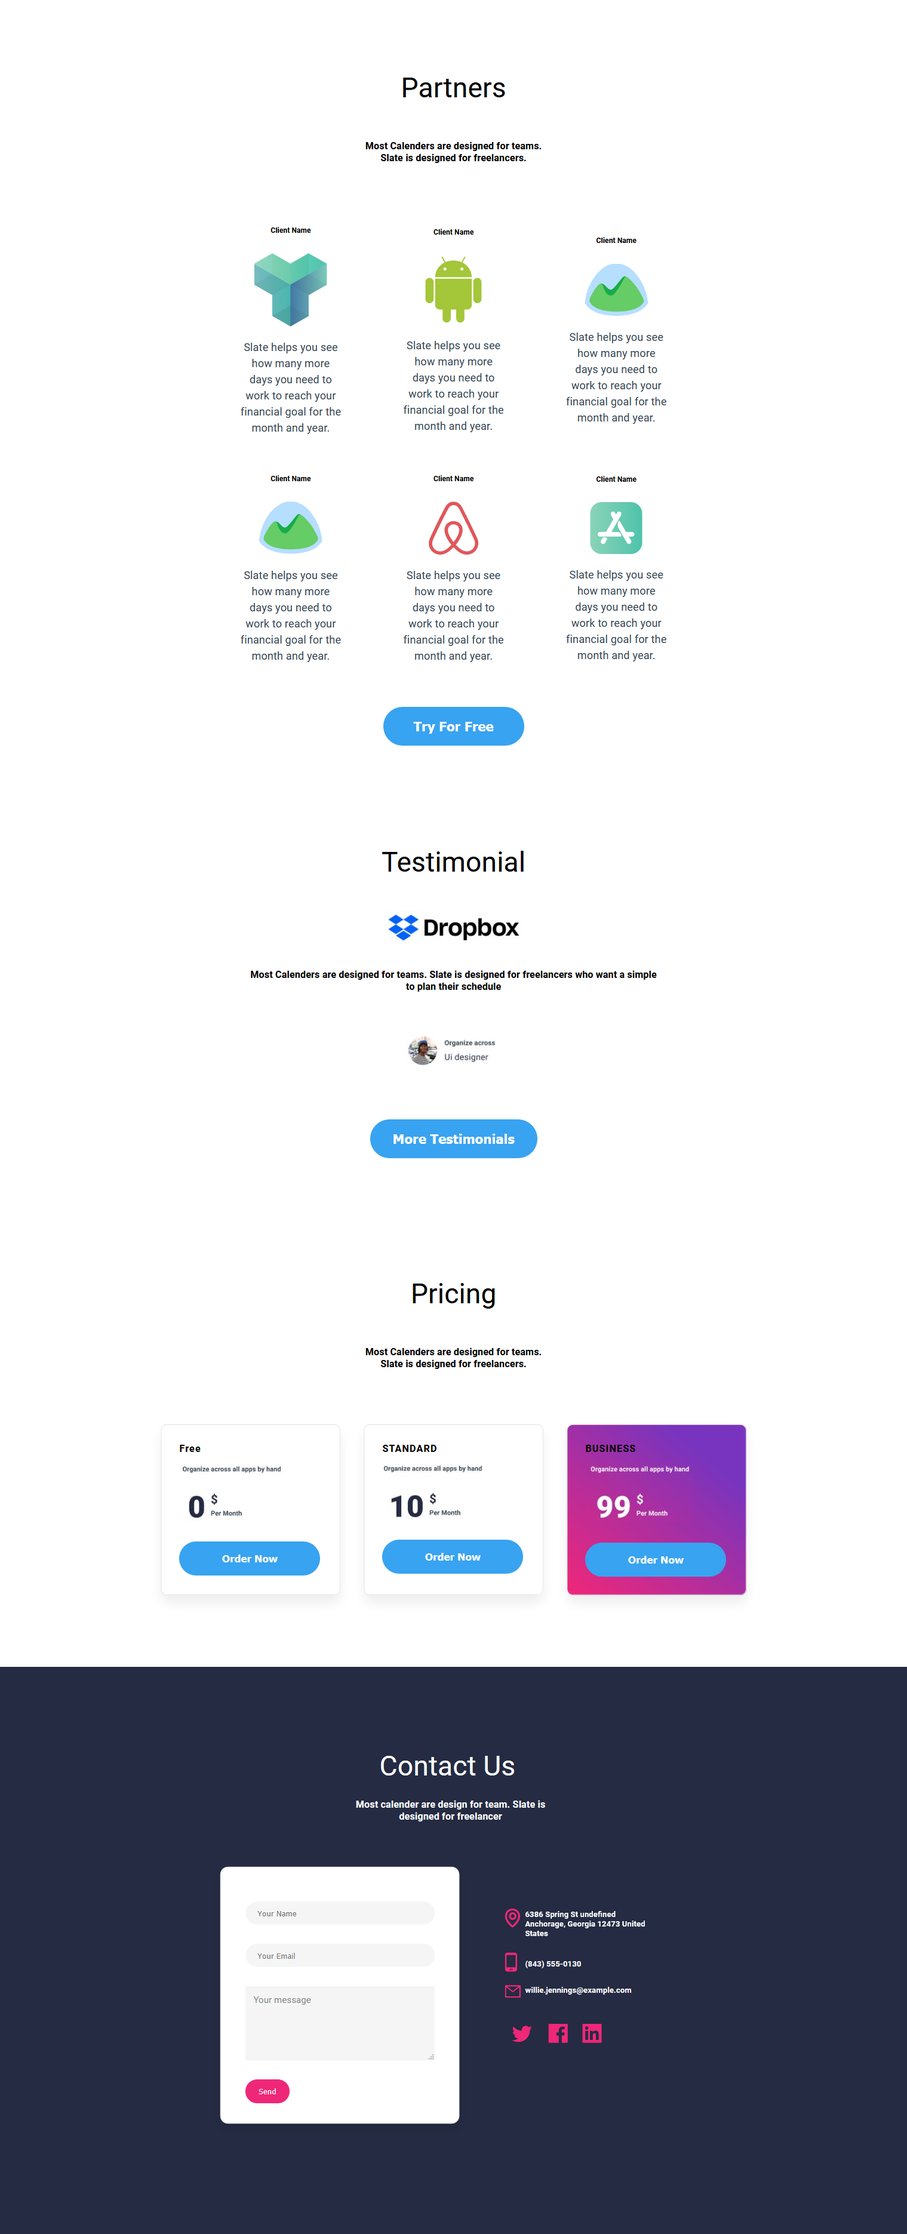
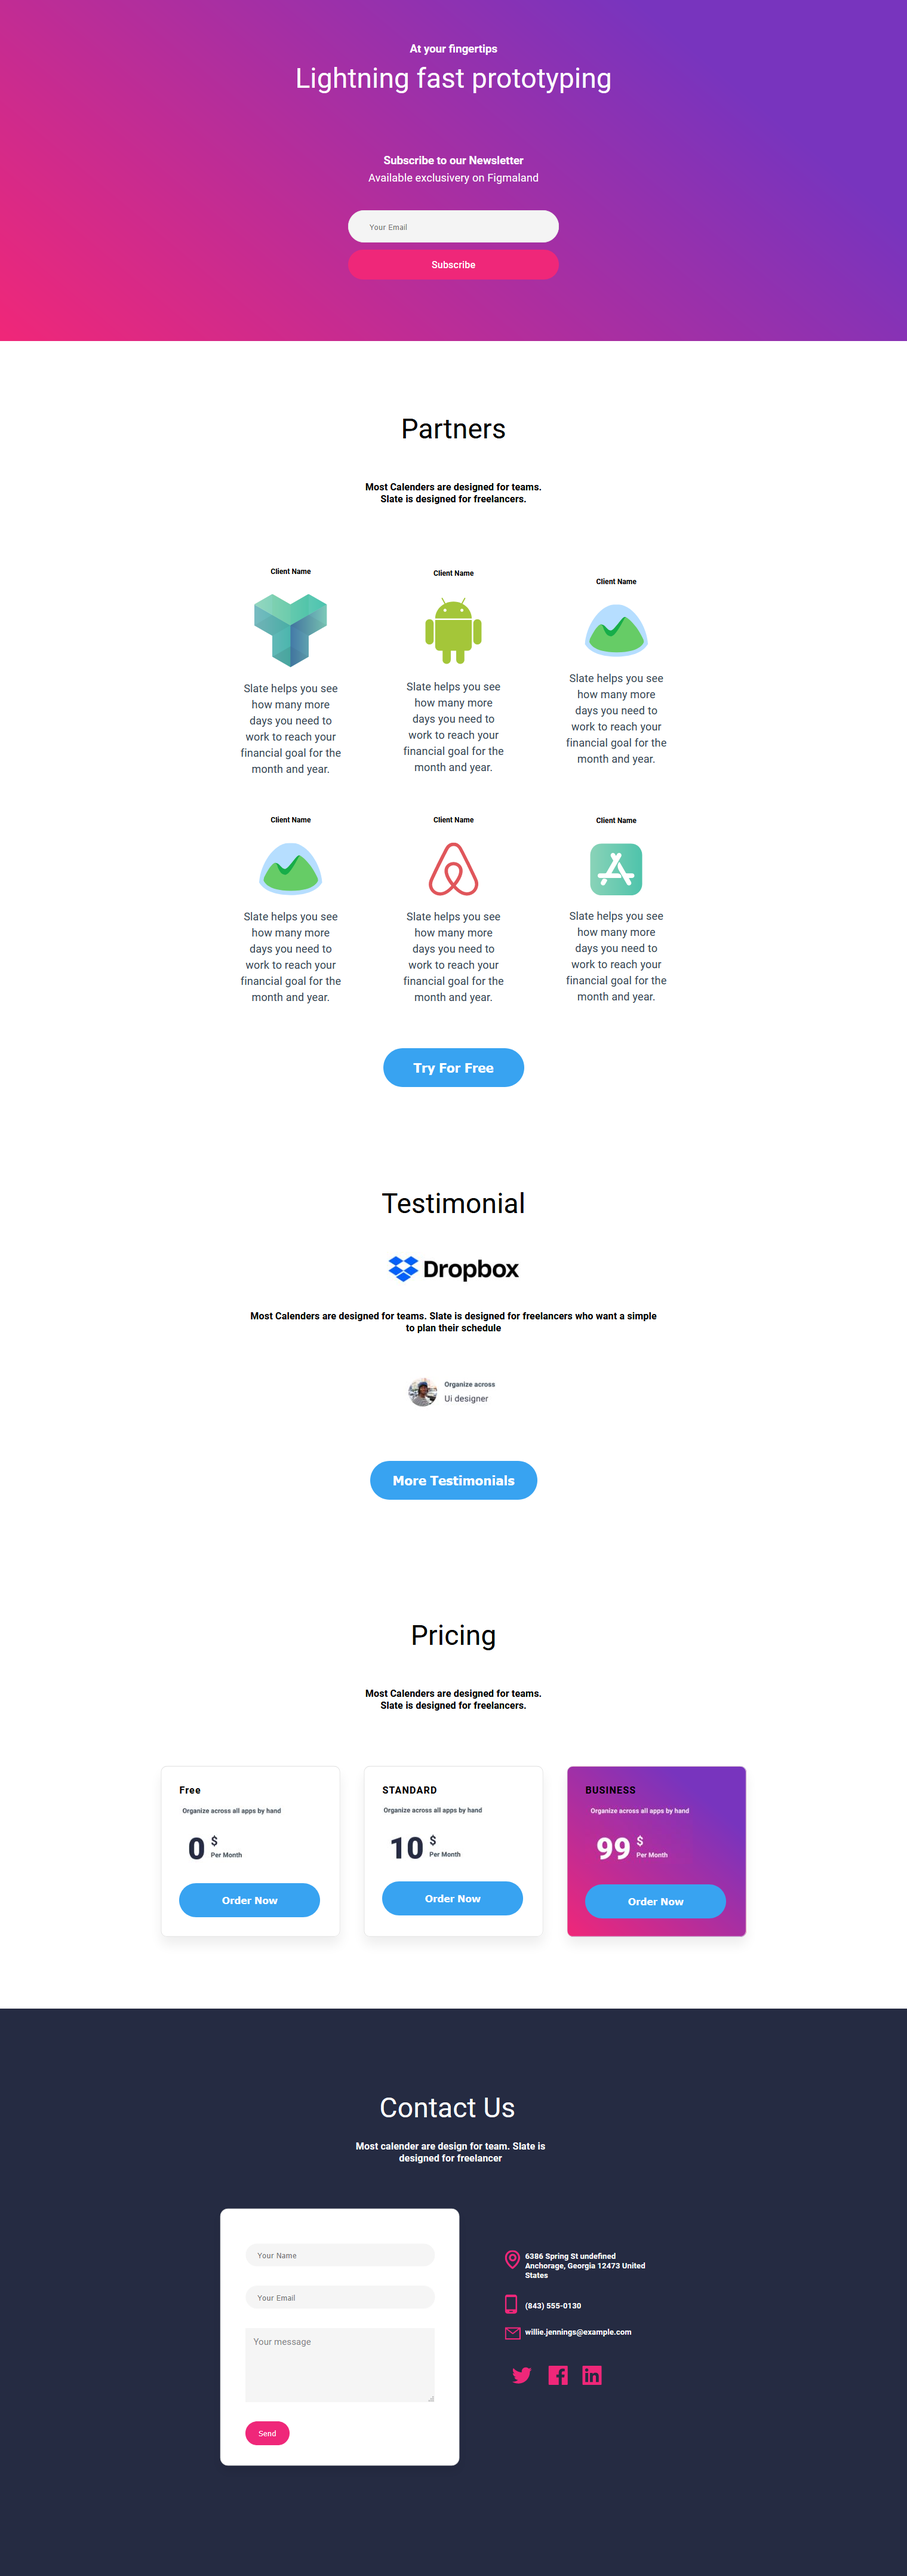
Subscribe commit

Changed region(s): [[0.0, 0.0, 1.0, 0.93], [0.6188, 0.217, 0.7426, 0.403], [0.2475, 0.93, 0.4951, 0.961]]

diff --git a/style.css b/style.css
@@ -38,6 +38,142 @@ p{
     color: #374754;
 }
 
+/* ------------------------------------------------subscribe---------------------------------------------------- */
+.sub-container{
+    display: flex;
+    flex-direction: column;
+    align-items: center;
+    width: 100%;
+    height: 571px;
+    background: linear-gradient(39.97deg, #EF2779 0.79%, #7834BE 79.29%);
+    color: white !important;
+}
+
+.sub-content{
+    display: flex;
+    flex-direction: column;
+    align-items: center;
+    width: 531px;   
+    height: auto;
+    left: calc(50% - 531px/2);
+    top: 11px;
+}
+
+.sub-contain1{
+    margin-top: 70px;
+    display: flex;
+    flex-direction: column;
+    align-items: center;
+}
+
+.sub-resp{
+    display: none;
+}
+
+.sub-contain2{
+    margin-top: 60px;
+    display: flex;
+    flex-direction: column;
+    align-items: center;
+    
+}
+
+.sub-contain2 h3{
+    margin: 0px;
+}
+
+.sub-desk{
+    margin-top: 10px !important;
+}
+
+.sub-1-h3 {
+	margin: 0px;
+}
+
+.sub-p{
+    color: white !important;
+    margin-top: 5px;
+    margin-bottom: 40px;    
+}
+
+.sub-input{
+    display: flex;
+    flex-direction: column;
+    align-items: flex-start;
+    padding: 19px 35px;
+    width: 353px;
+    height: 54px;    
+    background: #F4F4F4;
+    border: 1px solid #E8E8E8;
+    box-sizing: border-box;
+    border-radius: 39px;
+    flex-grow: 0;
+    margin-top: 34;
+}
+
+.sub-btn{
+    display: flex;
+    flex-direction: column;
+    align-items: center;
+    padding: 17px 35px;
+
+    width: 353px;
+    height: 50px;
+   
+
+
+    background: #EF2779;
+    border-radius: 35px;
+    border: none;
+    color: white;
+    
+    margin: 12px 0px;
+
+
+    font-family: Roboto;
+    font-style: normal;
+    font-weight: 500;
+    font-size: 16px;
+    line-height: 16px;
+
+
+    letter-spacing: 0.2px;
+}
+
+@media screen and (max-width: 800px){
+
+    .sub-container{
+        height: 571px;
+    }
+
+    .sub-content{
+        width: 100%;
+    }
+
+    .sub-desk{
+        display: none;
+    }
+
+    .sub-resp{
+        display: block;
+        padding-left: 10px;
+        margin-right: 10px;
+        margin-top: 7px;
+        margin-bottom: 7px;
+    }
+
+    .sub-input{
+        width: 300px;
+    }
+
+    .sub-btn{
+        width: 300px;
+    }
+
+}
+
+
+/* ------------------------------------------------Partners----------------------------------------------------- */
 .container4{
     /*width: 1440px;*/
     height: 1297px;

diff --git a/index.html b/index.html
@@ -7,6 +7,22 @@
     <link rel="stylesheet" href="style.css">
 </head>
 <body>
+    <!-- Subscribe -->
+    <div class="sub-container">
+        <div class="sub-content">
+            <div class="sub-contain1">
+                <h3 class="sub-1-h3">At your fingertips</h3>
+                <h2 class="sub-desk">Lightning fast prototyping</h2>
+                <h2 class="sub-resp">Newsletter</h2>
+            </div>
+            <div class="sub-contain2">
+                <h3>Subscribe to our Newsletter</h3>
+                <p class="sub-p">Available exclusivery on Figmaland</p>
+                <input class="sub-input" type="text" placeholder="Your Email">
+                <button class="sub-btn">Subscribe</button>
+            </div>
+        </div>
+    </div>
     <!--Partners-->
     <div class="container4">
         <div class="text-context">

diff --git a/README.md b/README.md
@@ -3,7 +3,7 @@
 # Live URL : https://trusting-austin-cb198c.netlify.app/
 
 
-# Partners, Testimonial & Pricing Section Completed
+# Subscribe, Partners, Testimonial, Pricing & Contact Us Section Completed
 
 ![Screenshot 1](./img/1.png)
 
